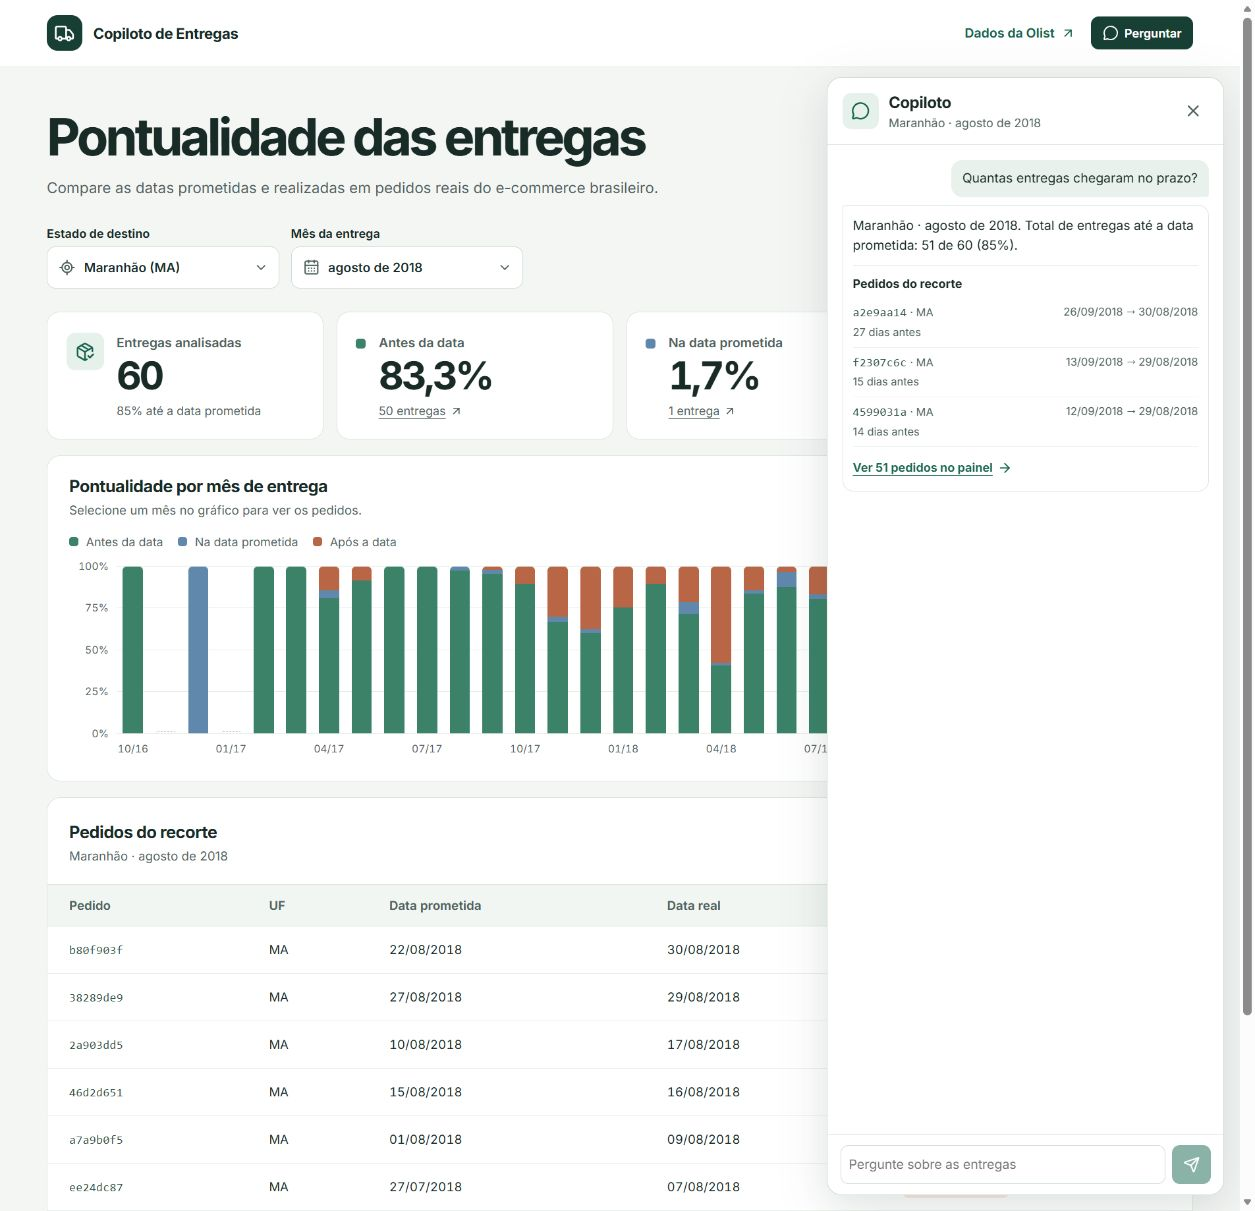
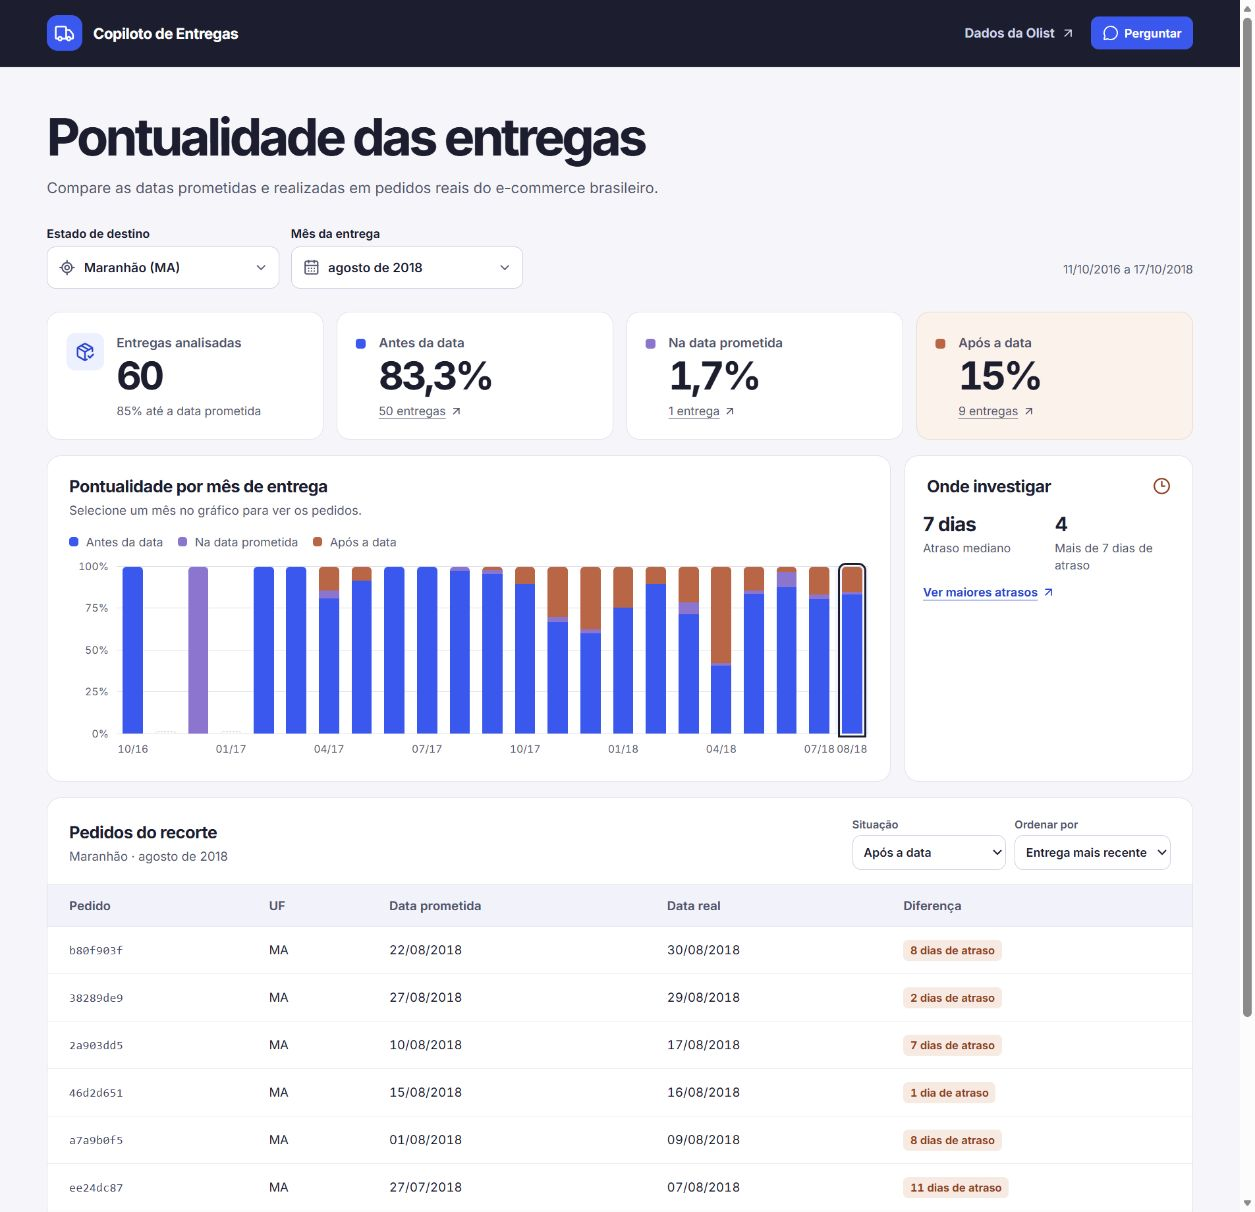
Alinha o Copiloto e o diagrama Jupytext à paleta do portfólio

diff --git a/portfolio/index.html b/portfolio/index.html
@@ -40,7 +40,7 @@
           <a class="action primary" href="https://portfolio-antonio-sergio.vercel.app/copiloto">Experimentar o Copiloto <span aria-hidden="true">↗</span></a>
         </div>
         <div class="feature-visual">
-          <img src="assets/copiloto-entregas.jpg" alt="Painel de entregas da Olist ao lado do chat. A resposta mostra 51 de 60 entregas até a data prometida, com acesso aos pedidos." width="1255" height="1211">
+          <img src="assets/copiloto-entregas.jpg?rev=paleta" alt="Painel de entregas da Olist para o Maranhão em agosto de 2018. Das 60 entregas, 50 chegaram antes da data, uma na data e nove atrasaram." width="1255" height="1212">
         </div>
       </article>
 
@@ -75,7 +75,7 @@
 
         <article class="card project">
           <div class="preview notebook-preview">
-            <img src="assets/fluxo-analise-jupytext.png" alt="Fluxo de análise com Claude, um script Python, Jupytext e um notebook com gráfico." width="1672" height="941" loading="lazy">
+            <img src="assets/fluxo-analise-jupytext.png?rev=paleta" alt="Fluxo de análise com Claude, um script Python, Jupytext e um notebook com gráfico." width="1672" height="941" loading="lazy">
           </div>
           <div class="project-copy">
             <p class="category">Python · Jupytext</p>

diff --git a/portfolio/analise-com-jupytext/index.html b/portfolio/analise-com-jupytext/index.html
@@ -32,10 +32,10 @@
 
     <div class="wrap case-content">
       <figure class="card diagram">
-        <img src="../assets/fluxo-analise-jupytext.png" alt="O Jupytext converte o script Python em notebook. A partir dos mesmos dados, o código gera um gráfico e um texto para o Claude com 80% para a equipe A e 62,5% para a B." width="1672" height="941">
+        <img src="../assets/fluxo-analise-jupytext.png?rev=paleta" alt="O Jupytext converte o script Python em notebook. A partir dos mesmos dados, o código gera um gráfico e um texto para o Claude com 80% para a equipe A e 62,5% para a B." width="1672" height="941">
         <figcaption>
           <span>Demonstração com dados fictícios. A descrição registra a métrica, os rótulos e os valores do gráfico.</span>
-          <a href="../assets/fluxo-analise-jupytext.png">Abrir diagrama em tamanho original</a>
+          <a href="../assets/fluxo-analise-jupytext.png?rev=paleta">Abrir diagrama em tamanho original</a>
         </figcaption>
       </figure>
 
